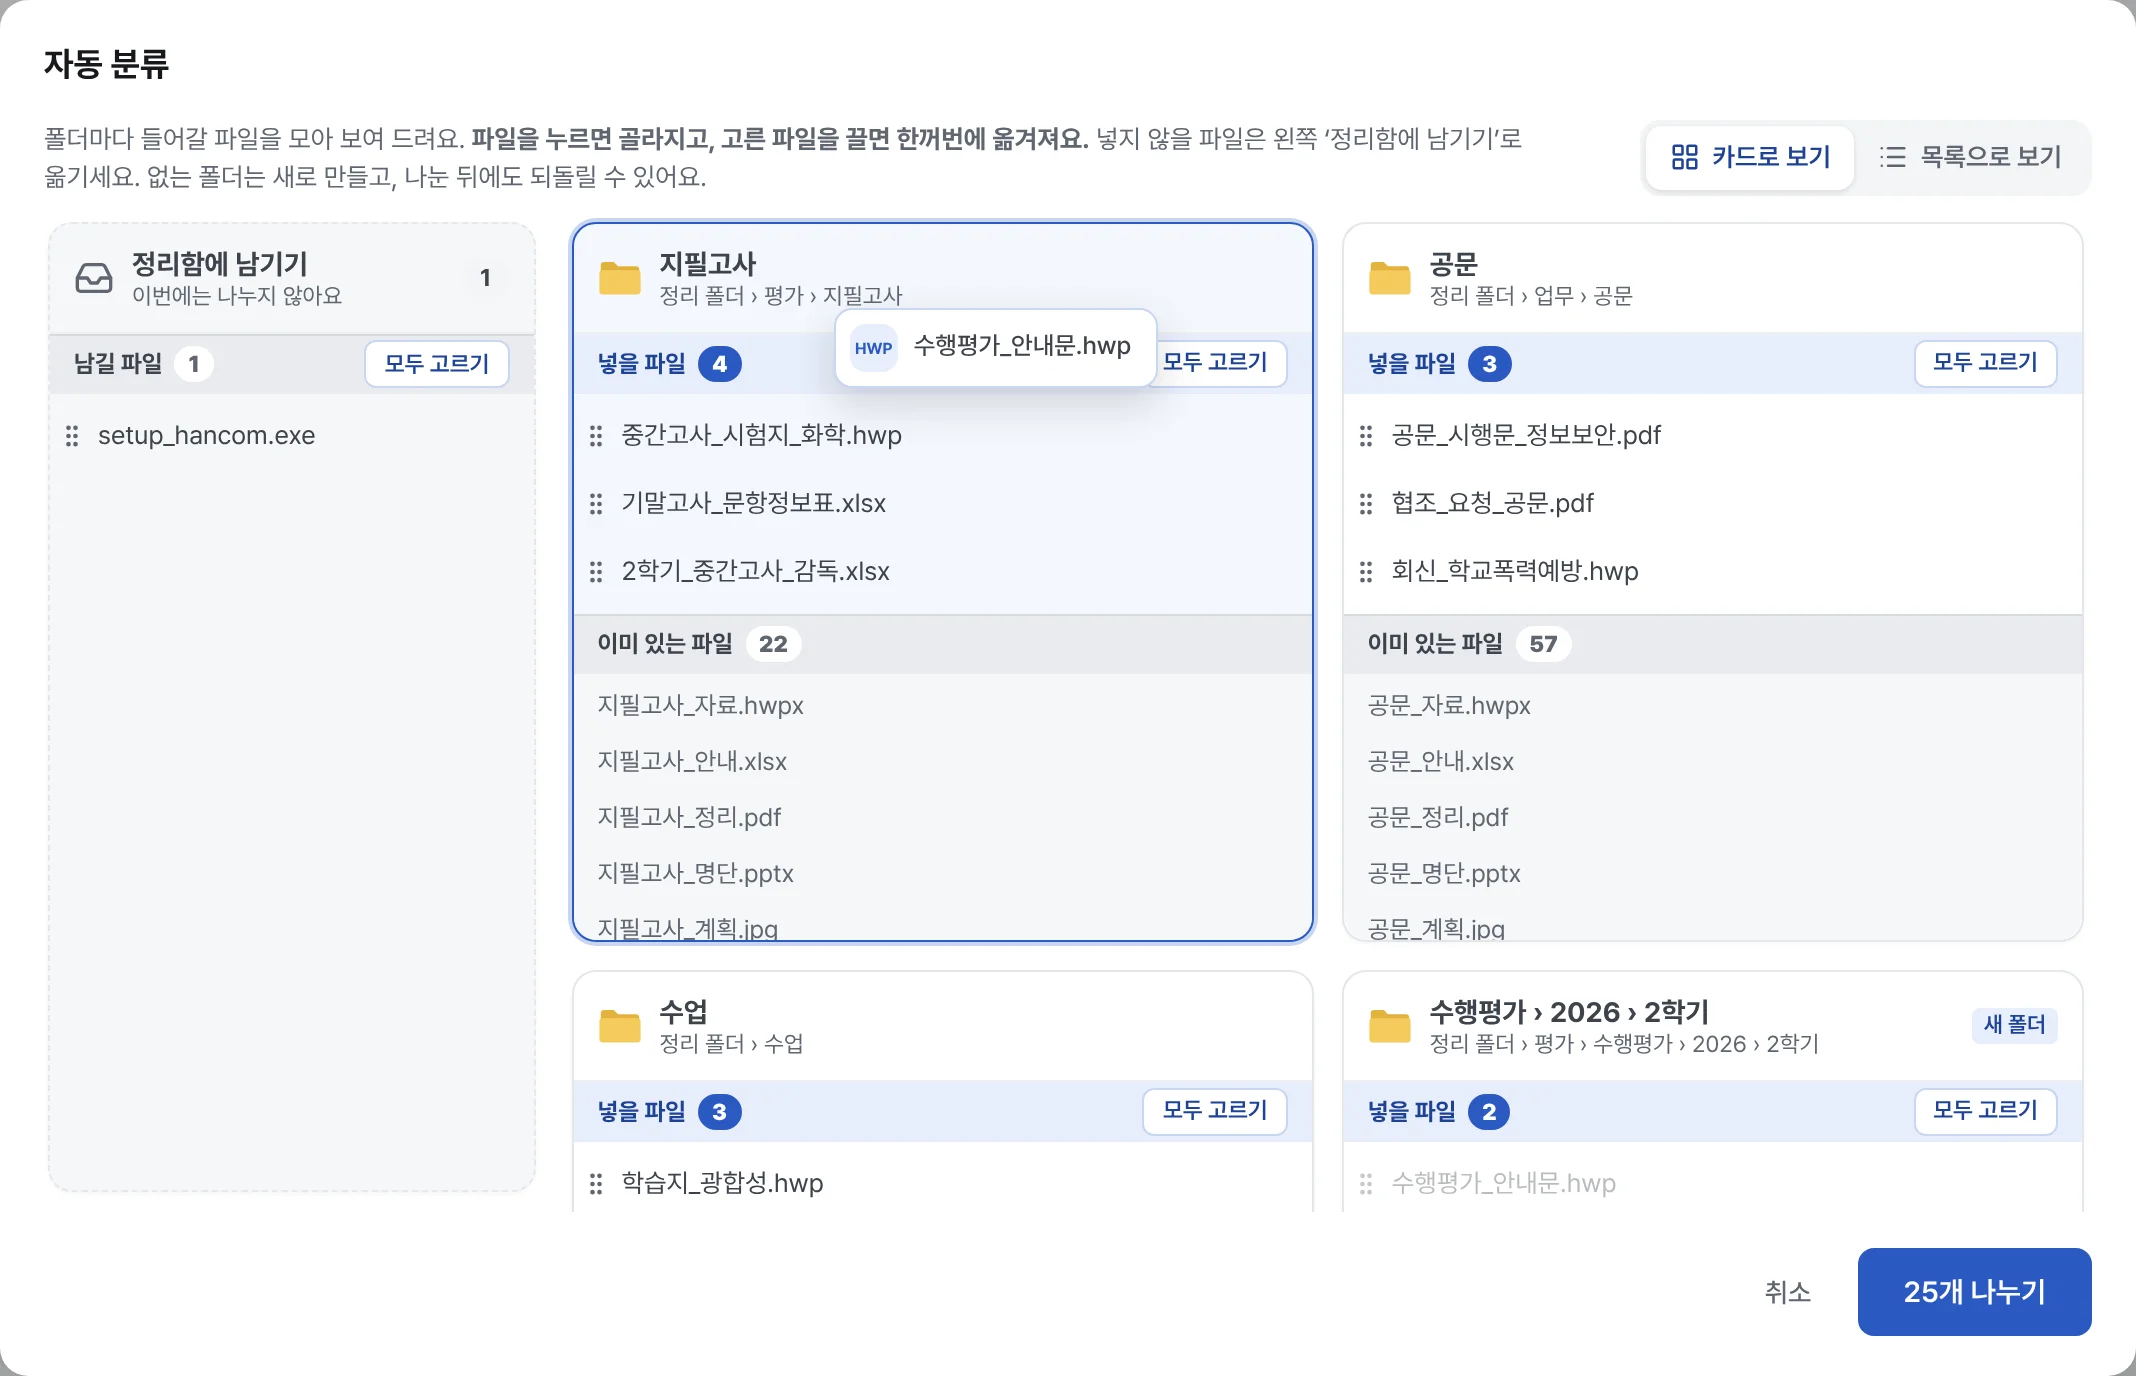
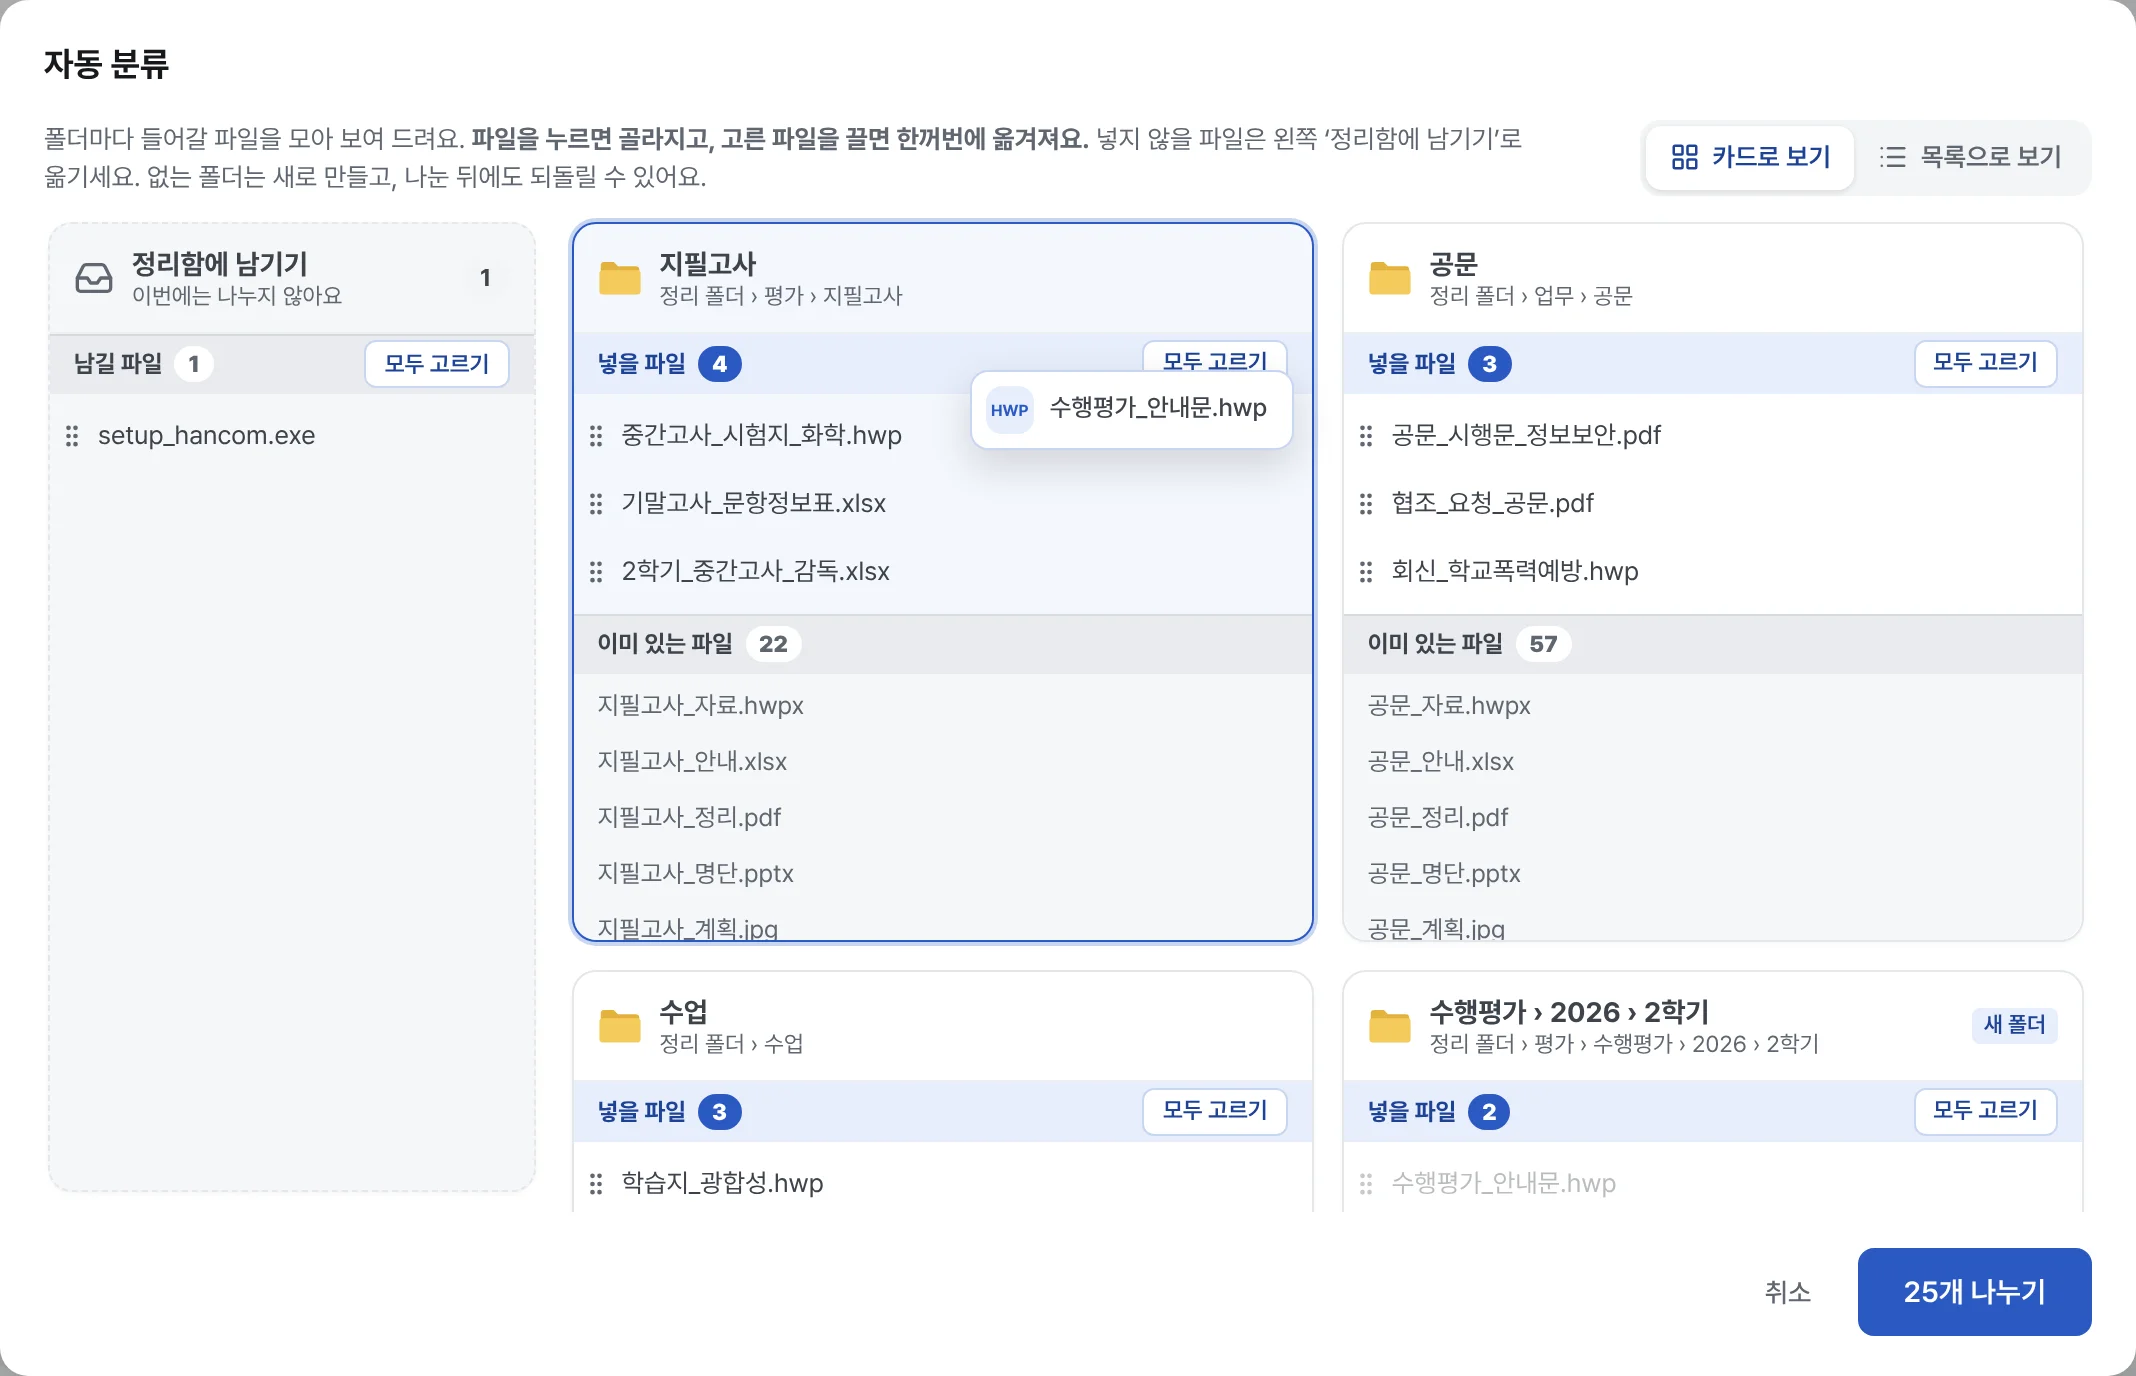
끌어다 놓기: 끌리는 표시와 놓을 곳을 마우스에 맞춤 (#26)
정리함에서 파일 줄의 오른쪽을 잡고 끌면 끌리는 표시가 마우스에서 멀리 떨어지고,
놓을 곳도 표시가 겹친 다른 폴더로 정해졌다(사용자 보고).

- 끌리는 표시를 마우스 오른쪽 아래에 붙인다(followCursor, src/lib/dnd.ts).
- 놓을 곳은 마우스 아래에 있는 칸으로 정한다(pointerWithin).
- 정리함과 자동 분류 창 모두. 설명서 그림(cl2·cl5) 다시 찍음, SPEC 3-2.

Claude-Session: https://claude.ai/code/session_01TC8Pbu5bQjk9y5TqXsKHr4

Changed region(s): [[0.4017, 0.2188, 0.618, 0.3438]]

diff --git a/src/components/ClassifyDialog.tsx b/src/components/ClassifyDialog.tsx
@@ -2,6 +2,7 @@ import { useEffect, useMemo, useState } from "react";
 import {
   DndContext,
   DragOverlay,
+  pointerWithin,
   PointerSensor,
   useDraggable,
   useDroppable,
@@ -10,6 +11,7 @@ import {
   type DragEndEvent,
   type DragStartEvent,
 } from "@dnd-kit/core";
+import { followCursor } from "../lib/dnd";
 import { FolderPlus, GripVertical, Inbox, LayoutGrid, List, RotateCcw } from "lucide-react";
 import { classifyPreview, errorMessage, folderClassifyPreview, listFiles, listFolders } from "../lib/backend";
 import { baseName, displayPath } from "../lib/paths";
@@ -421,7 +423,7 @@ export default function ClassifyDialog({ paths, source, root, separator, onClose
         </p>
       )}
       {plans && plans.length > 0 && (
-        <DndContext sensors={sensors} onDragStart={onDragStart} onDragEnd={onDragEnd} onDragCancel={() => setDragging(null)}>
+        <DndContext sensors={sensors} collisionDetection={pointerWithin} onDragStart={onDragStart} onDragEnd={onDragEnd} onDragCancel={() => setDragging(null)}>
           {view === "cards" ? (
             // 왼쪽: 정리함에 남기기(창 높이만큼 길게, 그 안에서 내려 봄) / 오른쪽: 폴더 카드(오른쪽만 내려 봄)
             <div className="classify-split">
@@ -454,7 +456,7 @@ export default function ClassifyDialog({ paths, source, root, separator, onClose
               </div>
             </div>
           )}
-          <DragOverlay dropAnimation={null}>
+          <DragOverlay dropAnimation={null} modifiers={[followCursor]}>
             {dragging && (
               <div className="classify__drag">
                 <FileBadge name={dragging.lead.name} size={24} />

diff --git a/src/screens/InboxPage.tsx b/src/screens/InboxPage.tsx
@@ -2,12 +2,14 @@ import { useCallback, useEffect, useMemo, useState } from "react";
 import {
   DndContext,
   DragOverlay,
+  pointerWithin,
   PointerSensor,
   useSensor,
   useSensors,
   type DragEndEvent,
   type DragStartEvent,
 } from "@dnd-kit/core";
+import { followCursor } from "../lib/dnd";
 import { FolderOpen } from "lucide-react";
 import ClassifyDialog from "../components/ClassifyDialog";
 import FileBadge from "../components/FileBadge";
@@ -310,7 +312,7 @@ export default function InboxPage() {
           다른 폴더 정리하기
         </button>
       </div>
-      <DndContext sensors={sensors} onDragStart={onDragStart} onDragEnd={onDragEnd} onDragCancel={() => setDragging(null)}>
+      <DndContext sensors={sensors} collisionDetection={pointerWithin} onDragStart={onDragStart} onDragEnd={onDragEnd} onDragCancel={() => setDragging(null)}>
         <div className="inbox">
           {items && (
             <InboxFileList
@@ -368,7 +370,7 @@ export default function InboxPage() {
             />
           )}
         </div>
-        <DragOverlay dropAnimation={null}>{overlay}</DragOverlay>
+        <DragOverlay dropAnimation={null} modifiers={[followCursor]}>{overlay}</DragOverlay>
       </DndContext>
       {resort && root && (
         <ClassifyDialog

diff --git a/src/lib/dnd.ts b/src/lib/dnd.ts
@@ -1,0 +1,15 @@
+// 끌어다 놓기 공통(정리함·자동 분류 창): 끌리는 파일 표시와 놓을 곳을 마우스에 맞춘다.
+// 사용자 보고: 긴 줄의 오른쪽을 잡고 끌면 표시가 마우스에서 멀리 떨어지고, 표시가 겹친 엉뚱한 폴더에 들어갔다.
+// → 표시는 followCursor로 마우스 옆에, 놓을 곳은 DndContext의 collisionDetection={pointerWithin}(마우스 아래 칸)으로.
+import type { Modifier } from "@dnd-kit/core";
+
+/** 끌리는 표시를 마우스 오른쪽 아래에 붙인다(마우스 아래 폴더 이름을 가리지 않게). */
+export const followCursor: Modifier = ({ activatorEvent, activeNodeRect, transform }) => {
+  if (!activeNodeRect || !(activatorEvent instanceof PointerEvent)) return transform;
+  return {
+    ...transform,
+    x: transform.x + activatorEvent.clientX - activeNodeRect.left + 14,
+    y: transform.y + activatorEvent.clientY - activeNodeRect.top + 14,
+  };
+};
+

diff --git a/docs/SPEC.md b/docs/SPEC.md
@@ -75,6 +75,7 @@
   - **새 폴더 제안**: 넣을 곳이 없거나 형식으로만 정해진 파일 중 이름에 같은 낱말(한글 2자·영어 3자 이상, 숫자·기호에서 끊음, '최종·사본·스캔' 같은 말 제외)이 든 파일이 3개 이상이면 그 낱말로 새 폴더 카드("새 폴더" 표시, 까닭 "이름의 ‘계약서’ 3개 · 새 폴더 제안"). 많은 낱말부터(같으면 긴 낱말), 한 파일은 한 폴더에만, 12개까지. 자리: 다시 나누는 폴더 안 / 다른 폴더면 정리 폴더 바로 아래(집·개인은 파일 종류가 같으면 그 종류 폴더 안, 예: 문서 › 계약서). [나누기]를 누를 때만 폴더를 만든다.
 - 파일 목록 맨 아래(목록이 비면 가운데에 크게) [지금 있는 파일 가져오기]: 지켜볼 폴더에 원래 있던 파일(시작 전부터 있던 파일)을 정리함으로 불러온다. 이미 정리함에 있는 파일은 그대로.
 - 넣는 방법: 폴더 아이콘 위로 끌어다 놓기 · 체크 후 폴더 아래 "여기에 넣기"(폴더 안에서는 "이 폴더에 넣기") · 체크 후 숫자 키.
+  - 끌 때: 끌리는 파일 표시는 마우스 오른쪽 아래에 붙어 다니고, 놓을 곳은 **마우스 아래에 있는 폴더**다(자동 분류 창도 같음). 예전에는 긴 줄의 오른쪽을 잡고 끌면 표시가 마우스에서 떨어지고 표시가 겹친 다른 폴더에 들어갔다(사용자 보고). `src/lib/dnd.ts`.
 - 끄는 동안 놓일 폴더 = 파란 아이콘 + 점선 테두리 + "놓으면 여기로".
 - 넣을 때마다 "n개 파일을 … 에 넣었어요 · 되돌리기".
 - 왼쪽 메뉴: 정리함(개수) · 최근 정리한 파일 · 파일 검색 · 이름 바꾸기(3-4) · 정리 규칙 · 설정, 아래 작동 상태.
